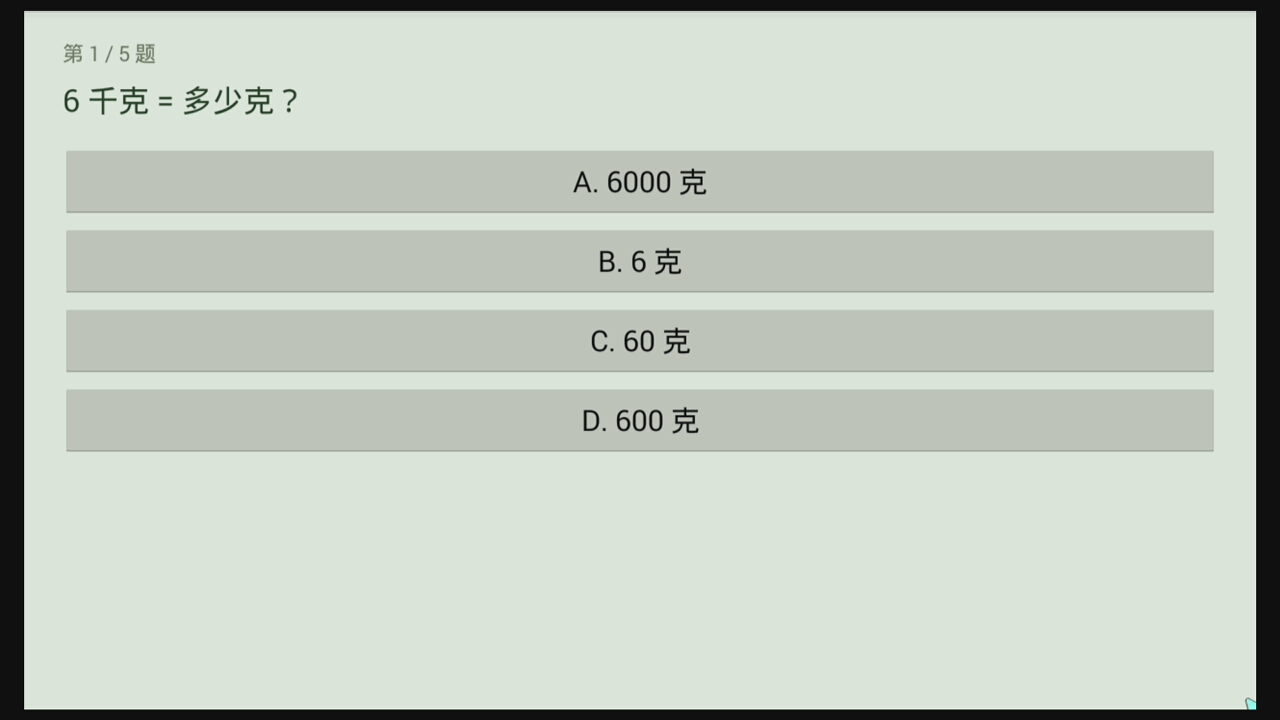
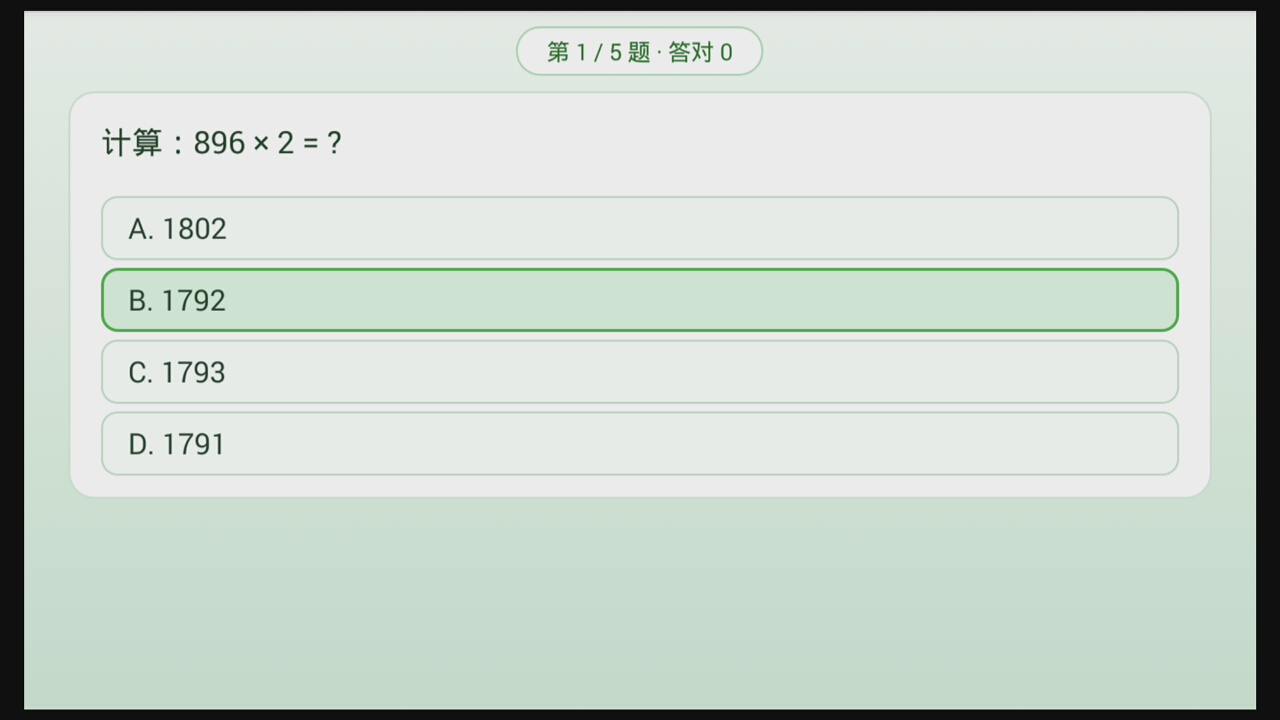
v2.0: 答题页视觉改版（渐变底 + 圆角卡片 + 进度胶囊 + 三态按钮 + 自动滚动）

diff --git a/app/src/main/java/com/kidtv/guard/QuizActivity.java b/app/src/main/java/com/kidtv/guard/QuizActivity.java
@@ -2,6 +2,7 @@ package com.kidtv.guard;
 
 import android.app.Activity;
 import android.os.Bundle;
+import android.view.Gravity;
 import android.view.View;
 import android.view.ViewGroup;
 import android.widget.Button;
@@ -17,6 +18,22 @@ import java.util.List;
 
 public class QuizActivity extends Activity {
 
+    // 答题页配色：浅绿渐变底 + 白色卡片 + 绿色高亮
+    private static final int BG_TOP = 0xFFF8FCF9;
+    private static final int BG_BOTTOM = 0xFFD2E7DB;
+    private static final int CARD_FILL = 0xFFFFFFFF;
+    private static final int CARD_STROKE = 0xFFD6E8DB;
+    private static final int TEXT_MAIN = 0xFF12301B;
+    private static final int TEXT_SOFT = 0xFF4F6B57;
+    private static final int BRAND = 0xFF2E7D32;
+    private static final int BRAND_DARK = 0xFF1B5E20;
+    private static final int OK_FILL = 0xFFEAF7EC;
+    private static final int OK_STROKE = 0xFF7CBF85;
+    private static final int OK_TEXT = 0xFF1B5E20;
+    private static final int BAD_FILL = 0xFFFDECEE;
+    private static final int BAD_STROKE = 0xFFEFA3A8;
+    private static final int BAD_TEXT = 0xFFB3261E;
+
     private Prefs p;
     private Bank bank;
     private List<JSONObject> questions;
@@ -25,6 +42,7 @@ public class QuizActivity extends Activity {
     private boolean answered = false;
     private String blockedPkg;
 
+    private ScrollView scroll;
     private TextView progress, stem, feedback;
     private LinearLayout options;
     private EditText input;
@@ -41,49 +59,89 @@ public class QuizActivity extends Activity {
         blockedPkg = getIntent() == null ? null
                 : getIntent().getStringExtra(BlockActivity.EXTRA_PKG);
 
-        ScrollView sc = new ScrollView(this);
-        sc.setBackgroundColor(0xFFEFF6EC);
+        LinearLayout page = new LinearLayout(this);
+        page.setOrientation(LinearLayout.VERTICAL);
+        page.setBackground(new android.graphics.drawable.GradientDrawable(
+                android.graphics.drawable.GradientDrawable.Orientation.TOP_BOTTOM,
+                new int[]{BG_TOP, BG_BOTTOM}));
+        page.setPadding(Util.dp(this, 46), Util.dp(this, 16), Util.dp(this, 46), Util.dp(this, 10));
+
         LinearLayout root = new LinearLayout(this);
         root.setOrientation(LinearLayout.VERTICAL);
-        root.setPadding(Util.dp(this, 40), Util.dp(this, 22), Util.dp(this, 40), Util.dp(this, 22));
-        sc.addView(root);
+        ScrollView sc = new ScrollView(this);
+        scroll = sc;
+        sc.setFillViewport(true);
+        sc.addView(root, new ScrollView.LayoutParams(
+                ViewGroup.LayoutParams.MATCH_PARENT, ViewGroup.LayoutParams.WRAP_CONTENT));
+        page.addView(sc, new LinearLayout.LayoutParams(
+                ViewGroup.LayoutParams.MATCH_PARENT, 0, 1f));
 
-        progress = Util.text(this, "", 22, 0xFF6B7A65);
-        root.addView(progress);
+        // 顶部：题号胶囊
+        LinearLayout headRow = new LinearLayout(this);
+        headRow.setOrientation(LinearLayout.HORIZONTAL);
+        headRow.setGravity(Gravity.CENTER_HORIZONTAL);
+        progress = Util.text(this, "", 24, BRAND_DARK);
+        progress.setGravity(Gravity.CENTER);
+        progress.setBackground(Util.roundBg(this, 0xFFFFFFFF, 24, 2, 0xFFB7D9BF));
+        progress.setPadding(Util.dp(this, 32), Util.dp(this, 9), Util.dp(this, 32), Util.dp(this, 9));
+        headRow.addView(progress, new LinearLayout.LayoutParams(
+                ViewGroup.LayoutParams.WRAP_CONTENT, ViewGroup.LayoutParams.WRAP_CONTENT));
+        LinearLayout.LayoutParams hlp = new LinearLayout.LayoutParams(
+                ViewGroup.LayoutParams.MATCH_PARENT, ViewGroup.LayoutParams.WRAP_CONTENT);
+        hlp.bottomMargin = Util.dp(this, 16);
+        page.addView(headRow, 0, hlp);
 
-        stem = Util.text(this, "", 32, 0xFF14301A);
-        stem.setLineSpacing(0, 1.25f);
-        root.addView(stem);
+        // 题面卡片：题干 + 选项 + 填空
+        LinearLayout card = new LinearLayout(this);
+        card.setOrientation(LinearLayout.VERTICAL);
+        card.setBackground(Util.roundBg(this, CARD_FILL, 26, 2, CARD_STROKE));
+        card.setPadding(Util.dp(this, 34), Util.dp(this, 24), Util.dp(this, 34), Util.dp(this, 24));
+        root.addView(card, new LinearLayout.LayoutParams(
+                ViewGroup.LayoutParams.MATCH_PARENT, ViewGroup.LayoutParams.WRAP_CONTENT));
+
+        stem = Util.text(this, "", 32, TEXT_MAIN);
+        stem.setLineSpacing(0, 1.3f);
+        card.addView(stem);
 
         options = new LinearLayout(this);
         options.setOrientation(LinearLayout.VERTICAL);
-        root.addView(options);
+        LinearLayout.LayoutParams olpBox = new LinearLayout.LayoutParams(
+                ViewGroup.LayoutParams.MATCH_PARENT, ViewGroup.LayoutParams.WRAP_CONTENT);
+        olpBox.topMargin = Util.dp(this, 8);
+        card.addView(options, olpBox);
 
         input = new EditText(this);
-        input.setHint("输入答案");
+        input.setHint("在这里输入答案");
         input.setTextSize(28);
+        input.setTextColor(TEXT_MAIN);
+        input.setHintTextColor(0xFF9BB2A2);
         input.setSingleLine(true);
+        input.setBackground(Util.roundBg(this, 0xFFF8FDF9, 16, 2, 0xFFCFE4D4));
+        input.setPadding(Util.dp(this, 22), 0, Util.dp(this, 22), 0);
         input.setVisibility(View.GONE);
         LinearLayout.LayoutParams ilp = new LinearLayout.LayoutParams(
-                ViewGroup.LayoutParams.MATCH_PARENT, Util.dp(this, 64));
-        ilp.topMargin = Util.dp(this, 8);
-        input.setLayoutParams(ilp);
-        root.addView(input);
+                ViewGroup.LayoutParams.MATCH_PARENT, Util.dp(this, 74));
+        ilp.topMargin = Util.dp(this, 14);
+        card.addView(input, ilp);
 
-        submit = Util.button(this, "提交答案", new View.OnClickListener() {
+        submit = primaryButton("提交答案", new View.OnClickListener() {
             public void onClick(View v) {
                 answerText();
             }
         });
-        submit.setTextSize(26);
         submit.setVisibility(View.GONE);
-        root.addView(submit);
+        card.addView(submit);
 
-        feedback = Util.text(this, "", 26, 0xFF2A5C33);
-        feedback.setLineSpacing(0, 1.3f);
-        root.addView(feedback);
+        // 反馈条：答对绿底、答错红底
+        feedback = Util.text(this, "", 23, OK_TEXT);
+        feedback.setLineSpacing(0, 1.32f);
+        feedback.setVisibility(View.GONE);
+        LinearLayout.LayoutParams flp = new LinearLayout.LayoutParams(
+                ViewGroup.LayoutParams.MATCH_PARENT, ViewGroup.LayoutParams.WRAP_CONTENT);
+        flp.topMargin = Util.dp(this, 16);
+        root.addView(feedback, flp);
 
-        next = Util.button(this, "继续", new View.OnClickListener() {
+        next = primaryButton("继续", new View.OnClickListener() {
             public void onClick(View v) {
                 index++;
                 if (index >= questions.size()) {
@@ -94,12 +152,28 @@ public class QuizActivity extends Activity {
             }
         });
         next.setVisibility(View.GONE);
-        next.setTextSize(26);
         root.addView(next);
 
-        setContentView(sc);
+        setContentView(page);
 
         startRound();
+    }
+
+    /** 统一的主按钮：绿色实心、圆角、聚焦时加深并加白边 */
+    private Button primaryButton(String s, View.OnClickListener l) {
+        Button btn = new Button(this);
+        btn.setText(s);
+        btn.setTextSize(28);
+        btn.setAllCaps(false);
+        btn.setTextColor(0xFFFFFFFF);
+        btn.setBackground(Util.selector(this, BRAND, BRAND_DARK, 0xFF245F29,
+                18, 0, 0, 3, 0xFFFFFFFF));
+        btn.setFocusable(true);
+        btn.setFocusableInTouchMode(false);
+        btn.setOnClickListener(l);
+        btn.setLayoutParams(new LinearLayout.LayoutParams(
+                ViewGroup.LayoutParams.MATCH_PARENT, Util.dp(this, 86)));
+        return btn;
     }
 
     /** 开始（或重开）一轮题 */
@@ -125,11 +199,13 @@ public class QuizActivity extends Activity {
     private void render() {
         answered = false;
         JSONObject q = questions.get(index);
-        progress.setText("第 " + (index + 1) + " / " + questions.size() + " 题");
+        progress.setText("第 " + (index + 1) + " / " + questions.size() + " 题 · 答对 " + correct);
         stem.setText(q.optString("q", ""));
         feedback.setText("");
+        feedback.setVisibility(View.GONE);
         options.removeAllViews();
         next.setVisibility(View.GONE);
+        scroll.scrollTo(0, 0);
 
         String type = q.optString("type", "single");
         boolean isText = type.equals("text");
@@ -149,21 +225,35 @@ public class QuizActivity extends Activity {
         }
         for (int i = 0; i < opts.length(); i++) {
             final int idx = i;
-            Button optionBtn = Util.button(this, String.valueOf((char) ('A' + i)) + ". " + opts.optString(i),
-                    new View.OnClickListener() {
-                        public void onClick(View v) {
-                            answerChoice(idx, q);
-                        }
-                    });
+            Button optionBtn = new Button(this);
+            optionBtn.setText(String.valueOf((char) ('A' + i)) + ". " + opts.optString(i));
             optionBtn.setTextSize(30);
+            optionBtn.setAllCaps(false);
+            optionBtn.setTextColor(0xFF16321F);
+            optionBtn.setGravity(Gravity.CENTER_VERTICAL | Gravity.LEFT);
+            optionBtn.setPadding(Util.dp(this, 28), 0, Util.dp(this, 22), 0);
+            optionBtn.setBackground(Util.selector(this, 0xFFFDFEFD, 0xFFDFF2E4, 0xFFCDE8D5,
+                    16, 2, 0xFFC6DECE, 3, 0xFF43A047));
+            optionBtn.setFocusable(true);
+            optionBtn.setFocusableInTouchMode(false);
+            optionBtn.setOnClickListener(new View.OnClickListener() {
+                public void onClick(View v) {
+                    answerChoice(idx, q);
+                }
+            });
             LinearLayout.LayoutParams olp = new LinearLayout.LayoutParams(
-                    ViewGroup.LayoutParams.MATCH_PARENT, Util.dp(this, 72));
-            olp.topMargin = Util.dp(this, 10);
+                    ViewGroup.LayoutParams.MATCH_PARENT, Util.dp(this, 66));
+            olp.topMargin = Util.dp(this, 8);
             optionBtn.setLayoutParams(olp);
             options.addView(optionBtn);
         }
         if (options.getChildCount() > 0) {
-            options.getChildAt(0).requestFocus();
+            final View firstOpt = options.getChildAt(0);
+            firstOpt.post(new Runnable() {
+                public void run() {
+                    firstOpt.requestFocus();
+                }
+            });
         }
     }
 
@@ -175,15 +265,22 @@ public class QuizActivity extends Activity {
         JSONArray opts = q.optJSONArray("a");
         String right = (opts != null && k >= 0 && k < opts.length()) ? opts.optString(k) : "?";
         judge(idx == k, right, q.optString("tip", ""));
-        // 高亮所选与正确项
+        // 高亮：正确项绿框绿底，点错的那项红框红底，其余变灰
         for (int i = 0; i < options.getChildCount(); i++) {
             View v = options.getChildAt(i);
-            if (v instanceof Button) {
-                if (i == k) {
-                    v.setBackgroundColor(0xFFC8E6C9);
-                } else if (i == idx) {
-                    v.setBackgroundColor(0xFFFFCDD2);
-                }
+            if (!(v instanceof Button)) {
+                continue;
+            }
+            Button bb = (Button) v;
+            if (i == k) {
+                bb.setBackground(Util.roundBg(this, 0xFFCDEBD2, 16, 3, 0xFF43A047));
+                bb.setTextColor(0xFF14471C);
+            } else if (i == idx) {
+                bb.setBackground(Util.roundBg(this, 0xFFFBD9DC, 16, 3, 0xFFE57373));
+                bb.setTextColor(0xFF8E1F22);
+            } else {
+                bb.setBackground(Util.roundBg(this, 0xFFF2F6F3, 16, 2, 0xFFE0E8E2));
+                bb.setTextColor(0xFF6B7A6F);
             }
         }
     }
@@ -232,11 +329,21 @@ public class QuizActivity extends Activity {
         if (tip != null && tip.trim().length() > 0) {
             s.append("\n解析：").append(tip.trim());
         }
-        feedback.setText(s.toString());
-        feedback.setTextColor(ok ? 0xFF2E7D32 : 0xFFC62828);
+        feedback.setVisibility(View.VISIBLE);
+        feedback.setBackground(Util.roundBg(this, ok ? OK_FILL : BAD_FILL, 18, 3,
+                ok ? OK_STROKE : BAD_STROKE));
+        feedback.setPadding(Util.dp(this, 22), Util.dp(this, 13), Util.dp(this, 22), Util.dp(this, 13));
+        feedback.setText((ok ? "√ " : "× ") + s.toString());
+        feedback.setTextColor(ok ? OK_TEXT : BAD_TEXT);
+        progress.setText("第 " + (index + 1) + " / " + questions.size() + " 题 · 答对 " + correct);
         next.setText(index + 1 >= questions.size() ? "看结果" : "继续");
         next.setVisibility(View.VISIBLE);
         next.requestFocus();
+        scroll.post(new Runnable() {
+            public void run() {
+                scroll.fullScroll(View.FOCUS_DOWN);
+            }
+        });
     }
 
     private void finishRound() {
@@ -335,7 +442,7 @@ public class QuizActivity extends Activity {
         handleBackAttempt();
     }
 
-    /** 返回键默认不放行；3 秒内连按 5 次才给家长密码这一个出口 */
+    /** 返回键默认不放行；4 秒内连按 5 次才给家长密码这一个出口 */
     private void handleBackAttempt() {
         long now = System.currentTimeMillis();
         if (now - lastBackAt > 4000) {

diff --git a/app/src/main/java/com/kidtv/guard/Util.java b/app/src/main/java/com/kidtv/guard/Util.java
@@ -195,4 +195,32 @@ public class Util {
         String ip = localIp();
         return "http://" + (ip == null ? "127.0.0.1" : ip) + ":" + HttpPanel.PORT + "/";
     }
+
+    /** 圆角矩形背景（纯 Java 画，不依赖 xml 资源） */
+    public static android.graphics.drawable.GradientDrawable roundBg(Context c, int fill,
+            int cornerDp, int strokeDp, int strokeColor) {
+        android.graphics.drawable.GradientDrawable g =
+                new android.graphics.drawable.GradientDrawable();
+        g.setShape(android.graphics.drawable.GradientDrawable.RECTANGLE);
+        g.setColor(fill);
+        g.setCornerRadius(dp(c, cornerDp));
+        if (strokeDp > 0) {
+            g.setStroke(dp(c, strokeDp), strokeColor);
+        }
+        return g;
+    }
+
+    /** 普通 / 聚焦 / 按下 三态的圆角背景，给遥控器焦点用 */
+    public static android.graphics.drawable.StateListDrawable selector(Context c,
+            int fill, int focusFill, int pressFill, int cornerDp,
+            int strokeDp, int strokeColor, int focusStrokeDp, int focusStrokeColor) {
+        android.graphics.drawable.StateListDrawable sl =
+                new android.graphics.drawable.StateListDrawable();
+        sl.addState(new int[]{android.R.attr.state_pressed},
+                roundBg(c, pressFill, cornerDp, strokeDp, strokeColor));
+        sl.addState(new int[]{android.R.attr.state_focused},
+                roundBg(c, focusFill, cornerDp, focusStrokeDp, focusStrokeColor));
+        sl.addState(new int[]{}, roundBg(c, fill, cornerDp, strokeDp, strokeColor));
+        return sl;
+    }
 }
